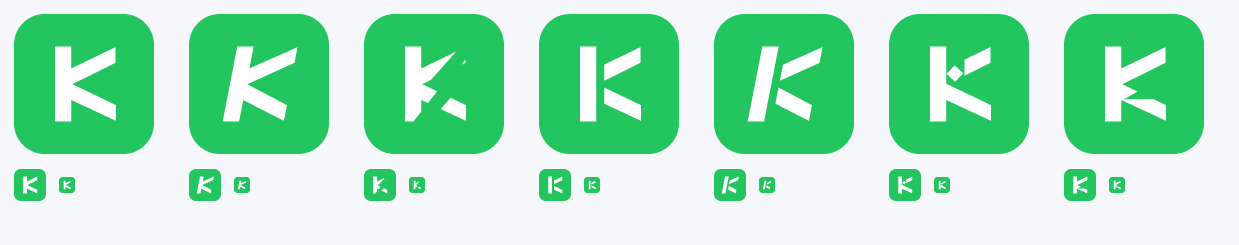
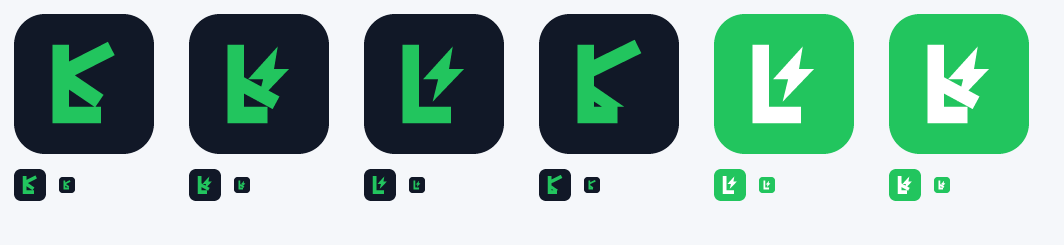
ไอคอน KiloEV: รวม K + L + สายฟ้าเป็นรูปเดียว และเปลี่ยนเป็นคู่สีของแอป
รูปเดียวอ่านได้สามอย่าง — ขาซ้ายเป็นขาของทั้ง K และ L ใช้ร่วมกัน · ฐานล่าง
ทำให้เป็น L · สายฟ้าจรดขาแล้วแตกออกเป็นแขนบนกับแขนล่างของ K โดยรอยหัก
ตรงกลางคือจังหวะสายฟ้าและเป็นตัวแยกสองแขนไปในตัว

กุญแจที่ทำให้รวมกันได้คือวาดสายฟ้าให้หางชี้ลงขวาแทนลงซ้าย จึงกลายเป็น
แขนล่างของ K ได้พอดี (แบบดั้งเดิมหางชี้ลงซ้าย อ่านเป็น "L ⚡" เฉยๆ)

คู่สีใหม่: เขียว #22c55e บนพื้น #111827 ซึ่งเป็นสีแถบข้างของแอป
คอนทราสต์ดีกว่าขาวบนเขียวมาก favicon จึงเลิกต้องใช้เขียวเข้มพิเศษ
ตอนนี้ favicon กับ PNG ใช้สีชุดเดียวกันแล้ว

เพิ่มตัวตรวจเทียบจุดใน path ของ icon.svg กับ MARK ในสคริปต์สร้าง PNG
เขียนขึ้นเพราะรอบนี้เขียน path ด้วยมือแล้วตกจุดไปหนึ่งจุด ซึ่ง z จะลากปิดรูป
ข้ามไปให้เงียบๆ ตาเปล่าไม่เห็น

เลื่อน VERSION ใน sw.js เป็น v4 พร้อมกัน

diff --git a/doc/make-icons.js b/doc/make-icons.js
@@ -2,9 +2,11 @@
  * สร้างไอคอน KiloEV เป็นไฟล์ PNG จริง โดยไม่พึ่งไลบรารีภายนอก
  * ใช้ zlib ที่ติดมากับ Node เข้ารหัสข้อมูลภาพ แล้วประกอบ chunk ของ PNG เอง
  *
- * รูปเป็นตัว K สีขาวบนพื้นเขียว Electric Green (#22C55E)
- * แขนสองข้างลอยห่างจากขา และเรียวแหลมเข้าหากึ่งกลาง
- * ช่องว่างที่เกิดขึ้นเป็นรูปลิ่มคล้ายประกายไฟ คงอารมณ์สายฟ้าของโลโก้เดิมไว้
+ * รูปรวม K + L + สายฟ้าไว้ในรูปเดียว
+ *   ขาซ้าย  = ขาของทั้ง K และ L ใช้ร่วมกัน
+ *   ฐานล่าง = ทำให้อ่านเป็น L
+ *   สายฟ้า  = จรดขาแล้วแตกออกเป็นแขนบนกับแขนล่างของ K รอยหักกลางคือจังหวะสายฟ้า
+ * สีเป็นเขียว Electric Green บนพื้นสีแถบข้างของแอป (#111827) คู่เดียวกับที่เห็นในเว็ป
  * วาดด้วย supersample 4x4 ต่อพิกเซล ขอบจึงเนียนไม่หยัก
  */
 const fs = require('fs');
@@ -12,8 +14,9 @@ const path = require('path');
 const zlib = require('zlib');
 
 const OUT = process.argv[2] || 'c:\Users\wnata\OneDrive\Desktop\Work2\public';
-const GREEN = [0x22, 0xc5, 0x5e];
-const WHITE = [0xff, 0xff, 0xff];
+// พื้นใช้สีแถบข้างของแอป ตัวอักษรใช้สีเน้น Electric Green — คู่สีเดียวกับที่เห็นในเว็ป
+const BG = [0x11, 0x18, 0x27];
+const FG = [0x22, 0xc5, 0x5e];
 
 /* ------------------------------- PNG encoder ------------------------------- */
 const CRC_TABLE = (() => {
@@ -63,9 +66,12 @@ function encodePng(w, h, rgba) {
  * ลำดับจุดต้องวนรอบรูปโดยไม่ตัดกันเอง ไม่งั้นการทดสอบ point-in-polygon จะเพี้ยน
  */
 const MARK = [
-  [[7.5, 5], [12.3, 5], [12.3, 27], [7.5, 27]],                    // ขา
-  [[16.2, 9.56], [25.2, 5.2], [25.2, 9.8], [13.6, 15.56]],         // แขนบน เรียวแหลมเข้าหาขา
-  [[13.6, 16.56], [25.4, 22.2], [25.4, 26.8], [16.2, 22.52]],      // แขนล่าง
+  // ขาซ้าย ใช้ร่วมกันเป็นขาของทั้ง K และ L
+  [[6.8, 4.5], [11.6, 4.5], [11.6, 27.5], [6.8, 27.5]],
+  // ฐานล่าง ทำให้อ่านเป็น L
+  [[6.8, 22.7], [17.5, 22.7], [17.5, 27.5], [6.8, 27.5]],
+  // สายฟ้าที่จรดขาแล้วแตกเป็นแขนบน-แขนล่างของ K รอยหักกลางคือจังหวะสายฟ้า
+  [[11.2, 11.4], [24.6, 4.8], [24.6, 9], [17.4, 12.6], [25.4, 18.6], [25.4, 22.8], [11.2, 16.4]],
 ];
 
 function inPolygon(px, py, poly) {
@@ -113,7 +119,7 @@ function drawIcon(size, radiusRatio, markScale) {
       const i = (y * size + x) * 4;
       if (bg === 0) { rgba[i + 3] = 0; continue; }   // นอกรูป โปร่งใส
       const ratio = fg / bg;
-      for (let c = 0; c < 3; c++) rgba[i + c] = Math.round(GREEN[c] * (1 - ratio) + WHITE[c] * ratio);
+      for (let c = 0; c < 3; c++) rgba[i + c] = Math.round(BG[c] * (1 - ratio) + FG[c] * ratio);
       rgba[i + 3] = Math.round((bg / (SS * SS)) * 255);
     }
   }

diff --git a/public/sw.js b/public/sw.js
@@ -14,7 +14,7 @@
 
 // ต้องเลื่อนเวอร์ชันนี้ทุกครั้งที่ไฟล์ใน PRECACHE หรือไอคอนเปลี่ยน
 // เพราะ activate ลบเฉพาะแคชที่ชื่อไม่ตรงกับเวอร์ชันปัจจุบัน ชื่อเดิม = แคชเก่ารอด
-const VERSION = 'v3';
+const VERSION = 'v4';
 const STATIC_CACHE = `evlog-static-${VERSION}`;
 const PAGE_CACHE = `evlog-pages-${VERSION}`;
 const OFFLINE_URL = '/offline.html';
